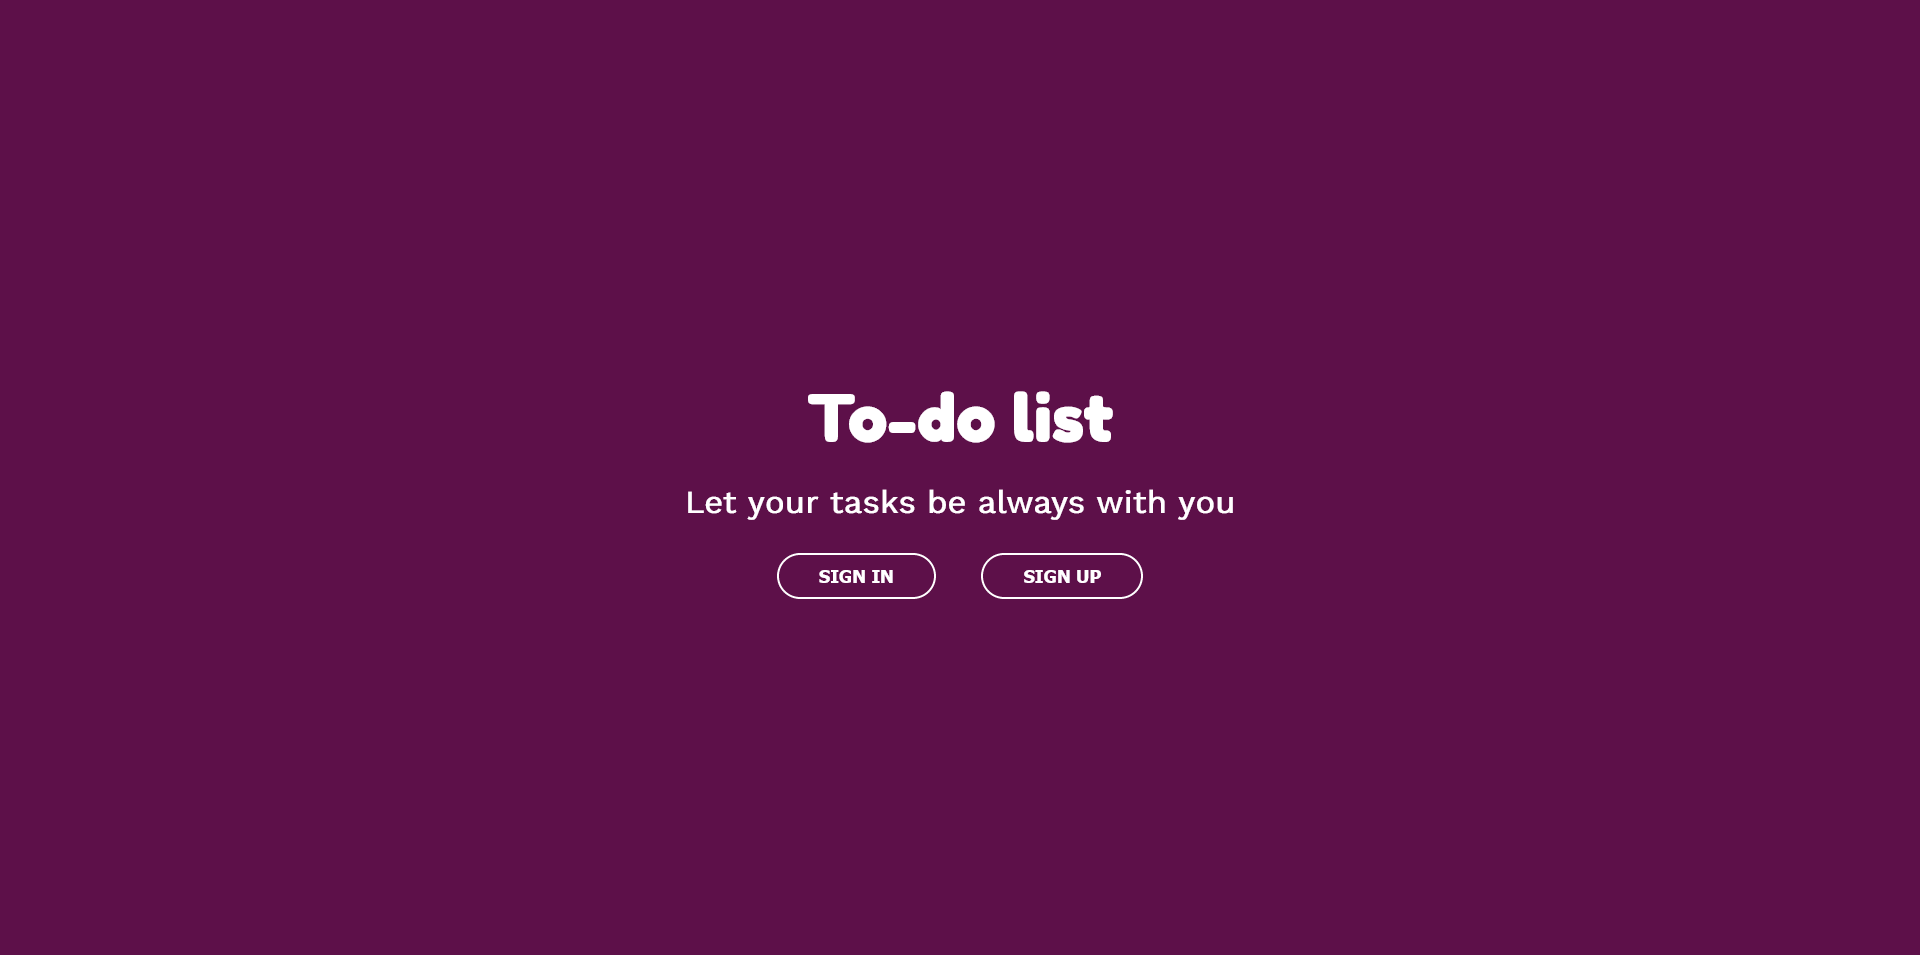
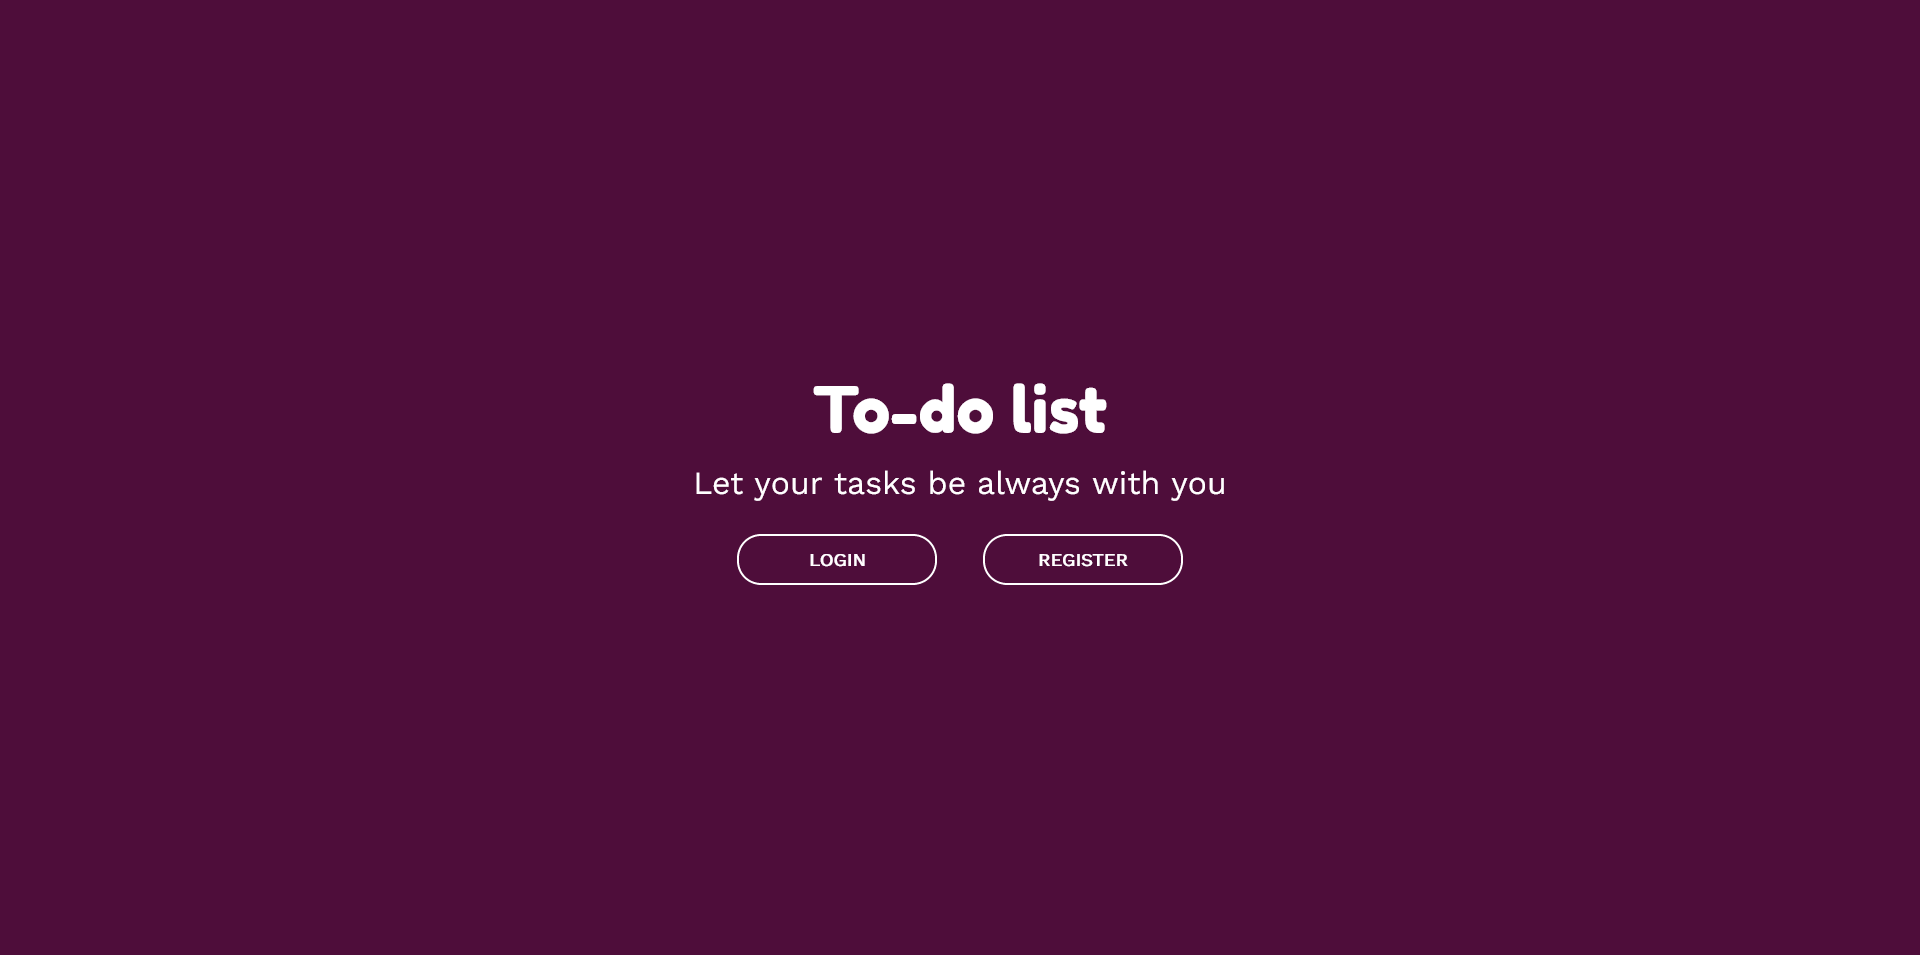
register-page

Changed region(s): [[0.3438, 0.3948, 0.6562, 0.5466], [0.4062, 0.577, 0.5938, 0.6377]]

diff --git a/main/templates/main/register.html b/main/templates/main/register.html
@@ -9,10 +9,22 @@
                     <a href="/">
                         <span class="material-icons">arrow_back</span>
                     </a>
-                    <span>Login</span>
+                    <span>Register</span>
                 </div>
                 <div class="card-body align-items-center">
                     <form method="POST">
+                        <div class="form-group row">
+                            <label for="first-name" class="col-md-4 offset-md-1 col-form-label">First name</label>
+                            <div class="col-md-6">
+                                <input id="first-name" type="text" class="form-control" name="first-name" required>
+                            </div>
+                        </div>
+                        <div class="form-group row">
+                            <label for="last-name" class="col-md-4 offset-md-1 col-form-label">Last name</label>
+                            <div class="col-md-6">
+                                <input id="email" type="email" class="form-control" name="email" required>
+                            </div>
+                        </div>
                         <div class="form-group row">
                             <label for="email" class="col-md-4 offset-md-1 col-form-label">Email address</label>
                             <div class="col-md-6">
@@ -26,9 +38,17 @@
                             </div>
                         </div>
                         <div class="form-group row">
+                            <label for="password-confirm"
+                                class="col-md-4 offset-md-1 col-form-label text-truncate">Confirm password</label>
+                            <div class="col-md-6">
+                                <input id="password-confirm" type="password" class="form-control"
+                                    name="password-confirm" required>
+                            </div>
+                        </div>
+                        <div class="form-group row">
                             <div class="col-md-12">
                                 <button type="submit">
-                                    Sign in
+                                    Sign up
                                 </button>
                             </div>
                         </div>

diff --git a/main/static/scss/partials/_cards.scss b/main/static/scss/partials/_cards.scss
@@ -12,13 +12,17 @@
     font-size: 2rem;
 
     & a {
-        color: #FFF
+        color: #FFF;
+
+        & span {
+            font-size: 2rem;
+            display: block;
+            float: left;
+        }
     }
 
-    & span {
-        font-size: 2rem;
-        display: block;
-        float: left;
+    & span:not(& a span) {
+        margin-left: -32px;
     }
 
     & .material-icons {
@@ -29,6 +33,12 @@
 .card-body {
     background-color: $tertiary-color;
     padding-top: 30px;
+
+    @include breakpoint(lg) {
+        & .offset-md-1 {
+            margin-left: 5.5%;
+        }
+    }
 }
 
 .row {

diff --git a/main/static/scss/main.scss b/main/static/scss/main.scss
@@ -9,7 +9,7 @@
 @import "variables";
 // Partials
 @import "partials/index";
-@import "partials/login";
+@import "partials/cards";
 
 html{
     height: 100vh;

diff --git a/main/urls.py b/main/urls.py
@@ -3,5 +3,6 @@ from . import views
 
 urlpatterns = [
     path('', views.index, name='home'),
-    path('login', views.login, name='login')
+    path('login', views.login, name='login'),
+    path('register', views.register, name='register'),
 ]

diff --git a/main/views.py b/main/views.py
@@ -6,3 +6,6 @@ def index(request):
 
 def login(request):
     return render(request, "main/login.html")
+
+def register(request):
+    return render(request, "main/register.html")
